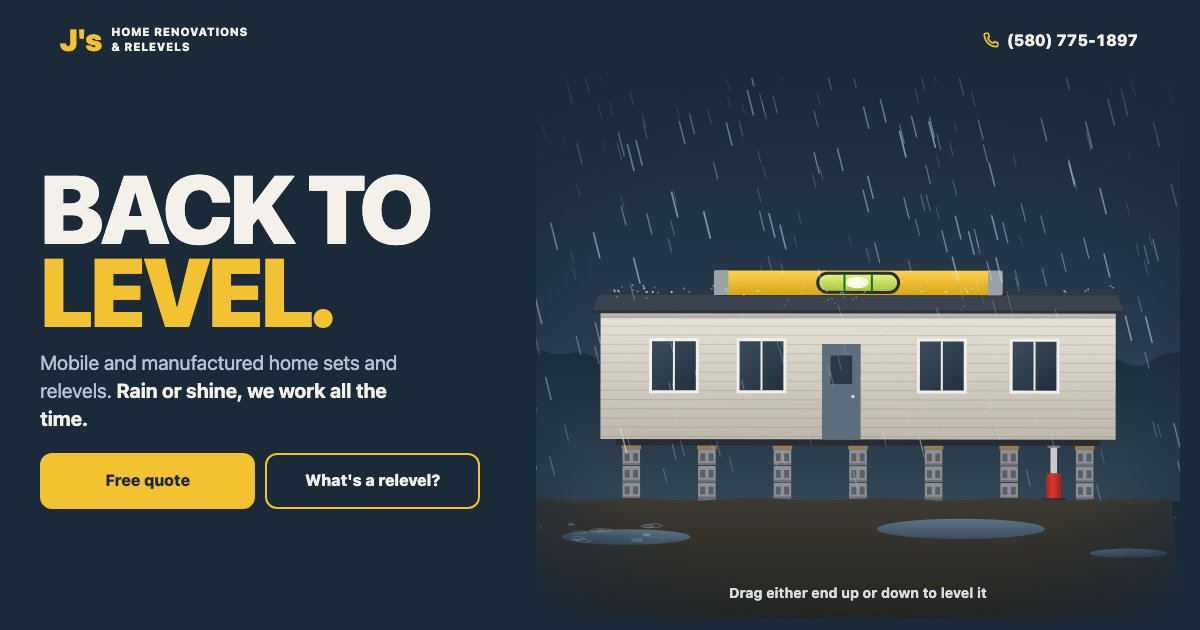
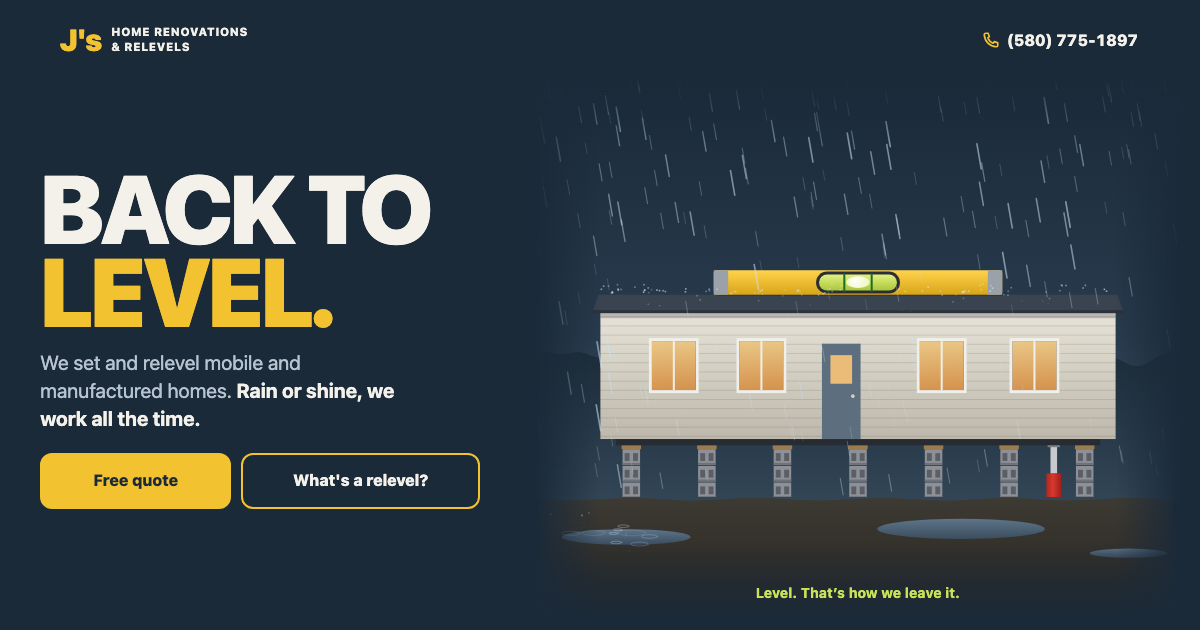
Apply Impeccable review fixes, add handoff
Claude-Session: https://claude.ai/code/session_01Hp2PGGb5UGd3rnLVFmTySM

diff --git a/index.html b/index.html
@@ -56,32 +56,32 @@ h2{font-size:clamp(2.1rem,9vw,3.6rem);text-transform:uppercase}
 .phone{display:inline-flex;align-items:center;gap:7px;min-height:44px;padding:0 2px;font-weight:800;font-size:16px;text-decoration:none;white-space:nowrap;font-variant-numeric:tabular-nums}
 .phone svg{width:18px;height:18px;flex:none;color:var(--level)}
 .phone:hover span{text-decoration:underline;text-underline-offset:4px;text-decoration-color:var(--level)}
-@media (max-width:379px){.mark span{font-size:11px;letter-spacing:.03em}.mark b{font-size:26px}.phone{font-size:15px}.phone svg{display:none}}
+@media (max-width:379px){.btns{grid-template-columns:minmax(0,.8fr) minmax(0,1.2fr)}.btn{font-size:15px;white-space:nowrap}.mark span{font-size:11px;letter-spacing:.03em}.mark b{font-size:26px}.phone{font-size:15px}.phone svg{display:none}}
 
 /* ---------- Hero ---------- */
 .hero{position:relative}
 .hero-copy{padding:18px var(--pad) 0;max-width:var(--max);margin:0 auto}
 .hero h1{font-size:clamp(3.3rem,17vw,6rem);text-transform:uppercase;line-height:.86;letter-spacing:-.035em}
 .hero h1 em{font-style:normal;color:var(--level)}
-.promise{margin:16px 0 0;font-size:clamp(17px,4.6vw,20px);line-height:1.4;color:var(--muted);max-width:30ch}
+.promise{margin:16px 0 0;font-size:clamp(17px,4.6vw,20px);line-height:1.4;color:var(--muted);max-width:30ch;text-wrap:pretty}
 .promise strong{color:var(--ink);font-weight:700}
-.btns{display:grid;grid-template-columns:1fr 1fr;gap:10px;margin-top:20px;max-width:440px}
-.btn{display:inline-flex;align-items:center;justify-content:center;min-height:56px;padding:0 14px;border-radius:12px;border:2px solid var(--level);font:800 16px/1.15 var(--font);text-decoration:none;text-align:center;cursor:pointer;transition:background .2s,color .2s,transform .15s}
+.btns{display:grid;grid-template-columns:1fr 1.25fr;gap:10px;margin-top:20px;max-width:440px}
+.btn{display:inline-flex;align-items:center;justify-content:center;min-height:56px;padding:0 10px;border-radius:12px;border:2px solid var(--level);font:800 16px/1.15 var(--font);text-decoration:none;text-align:center;cursor:pointer;transition:background .2s,color .2s,transform .15s}
 .btn:active{transform:translateY(1px)}
 .btn-main{background:var(--level);color:var(--paper-ink)}
 .btn-main:hover{background:#ffd651;border-color:#ffd651}
 .btn-ghost{background:transparent;color:var(--ink)}
 .btn-ghost:hover{background:rgba(242,194,48,.12)}
-.scene{position:relative;margin-top:14px;height:clamp(250px,40svh,360px);touch-action:none;user-select:none;-webkit-user-select:none;cursor:grab}
+.scene{position:relative;margin-top:20px;height:clamp(250px,40svh,360px);touch-action:none;user-select:none;-webkit-user-select:none;cursor:grab}
 .scene:active{cursor:grabbing}
-.scene canvas{position:absolute;inset:0;width:100%;height:100%;-webkit-mask-image:linear-gradient(to bottom,#000 84%,transparent);mask-image:linear-gradient(to bottom,#000 84%,transparent);}
+.scene canvas{position:absolute;inset:0;width:100%;height:100%;-webkit-mask-image:linear-gradient(to bottom,transparent 0,#000 16%,#000 84%,transparent);mask-image:linear-gradient(to bottom,transparent 0,#000 16%,#000 84%,transparent);}
 .hint{position:absolute;left:0;right:0;bottom:14px;margin:0;text-align:center;font-size:14px;font-weight:700;color:#d6dde3;pointer-events:none;letter-spacing:.01em;transition:color .4s}
 .hint.ok{color:var(--vial)}
 @media (min-width:1024px){
   .hero{display:grid;grid-template-columns:minmax(0,1fr) minmax(0,1.3fr);align-items:center;max-width:calc(var(--max) + 2*var(--pad));padding:0 0 0 var(--pad);margin:0 auto;min-height:min(640px,calc(100svh - 70px))}
   .hero-copy{padding:20px 0 40px;margin:0}
   .scene{height:540px;margin-top:0}
-  .scene canvas{-webkit-mask-image:radial-gradient(ellipse 50% 50% at 50% 50%,#000 68%,transparent 100%);mask-image:radial-gradient(ellipse 50% 50% at 50% 50%,#000 68%,transparent 100%)}
+  .scene canvas{-webkit-mask-image:linear-gradient(to right,transparent,#000 10%,#000 90%,transparent),linear-gradient(to bottom,transparent 0,#000 12%,#000 86%,transparent);-webkit-mask-composite:source-in;mask-image:linear-gradient(to right,transparent,#000 10%,#000 90%,transparent),linear-gradient(to bottom,transparent 0,#000 12%,#000 86%,transparent);mask-composite:intersect}
   .top{padding:18px var(--pad) 6px}
 }
 
@@ -97,7 +97,7 @@ section{padding:56px 0 64px}
 .paper .lede{color:var(--paper-muted)}
 
 /* Services: rows link to the quote form; only the arrow reacts */
-.rows{list-style:none;margin:28px 0 0;padding:0;border-top:1px solid var(--line)}
+.rows{list-style:none;margin:28px 0 0;padding:8px 0 0;border-top:1px solid var(--line)}
 .rows li{border-bottom:1px solid var(--line)}
 .row{display:flex;align-items:center;gap:16px;padding:20px 2px;text-decoration:none;min-height:64px}
 .row:hover,.row:focus-visible{outline:none;background:none;box-shadow:none}
@@ -114,15 +114,16 @@ section{padding:56px 0 64px}
 .signs li{display:flex;gap:14px;align-items:baseline;padding:14px 0;border-bottom:1px solid rgba(27,42,57,.14);font-size:18px;font-weight:600}
 .signs li:last-child{border-bottom:0}
 .signs svg{flex:none;width:26px;height:12px;transform:translateY(1px)}
+.h2-gap{margin-top:64px}
 .paper-note{margin:24px 0 0;font-size:18px;max-width:46ch;color:var(--paper-ink);font-weight:700}
 
 /* Steps */
 .steps{list-style:none;margin:30px 0 0;padding:0;display:grid;gap:26px;counter-reset:s}
 .steps li{display:grid;grid-template-columns:auto 1fr;gap:4px 16px;align-items:baseline}
-.steps .n{font-size:44px;font-weight:900;line-height:1;color:var(--level-deep);font-variant-numeric:tabular-nums;grid-row:span 2}
+.steps .n{font-size:44px;font-weight:900;line-height:1;color:#7d5f00;font-variant-numeric:tabular-nums;grid-row:span 2}
 .steps h3{font-size:22px;text-transform:uppercase;letter-spacing:0}
 .steps p{margin:0;color:var(--paper-muted);font-size:17px}
-.care{margin:36px 0 0;font-size:clamp(20px,5.4vw,26px);line-height:1.35;font-weight:700;max-width:34ch}
+.care{margin:36px 0 0;font-size:clamp(20px,5.4vw,26px);line-height:1.4;font-weight:700;max-width:34ch}
 @media (min-width:900px){.steps{grid-template-columns:repeat(3,1fr);gap:32px}}
 
 /* ---------- Quote form ---------- */
@@ -130,21 +131,21 @@ section{padding:56px 0 64px}
 .field label,.field legend{display:block;font-weight:800;font-size:16px;margin-bottom:8px;padding:0}
 .field .opt{font-weight:500;color:var(--muted)}
 fieldset{border:0;margin:0;padding:0;min-width:0}
-input[type=text],textarea{width:100%;font:500 17px/1.4 var(--font);color:var(--ink);background:var(--ground-3);border:2px solid transparent;border-radius:12px;padding:14px 14px;min-height:54px;transition:border-color .15s}
+input[type=text],textarea{width:100%;font:500 17px/1.4 var(--font);color:var(--ink);background:var(--ground-3);border:2px solid rgba(243,241,234,.18);border-radius:12px;padding:14px 14px;min-height:54px;transition:border-color .15s}
 textarea{min-height:96px;resize:vertical}
 input::placeholder,textarea::placeholder{color:#9fb0bf}
 input[type=text]:hover,textarea:hover,input[type=text]:focus,textarea:focus{border-color:var(--rain);outline:none}
 .chips{display:flex;flex-wrap:wrap;gap:10px}
 .chip{position:relative}
 .chip input{position:absolute;opacity:0;width:1px;height:1px}
-.chip span{display:inline-flex;align-items:center;min-height:48px;padding:0 18px;border-radius:12px;background:var(--ground-3);border:2px solid transparent;font-weight:700;cursor:pointer;transition:border-color .15s,background .15s,color .15s}
+.chip span{display:inline-flex;align-items:center;min-height:48px;padding:0 18px;border-radius:12px;background:var(--ground-3);border:2px solid rgba(243,241,234,.18);font-weight:700;cursor:pointer;transition:border-color .15s,background .15s,color .15s}
 .chip span:hover,.chip input:focus-visible+span{border-color:var(--rain)}
 .chip input:checked+span{background:var(--ink);color:var(--paper-ink)}
 .err{display:none;margin:8px 0 0;color:#ffb3a1;font-size:15px;font-weight:600}
 .field.bad .err{display:block}
 .field.bad input[type=text]{border-color:#ff9c85}
 .send{border:2px solid var(--level);width:100%;max-width:620px}
-.send:hover,.send:focus-visible{outline:3px solid var(--rain);outline-offset:3px}
+.send:hover,.send:focus-visible{outline:3px solid var(--rain);outline-offset:3px;outline-color:var(--rain)}
 .alt{margin:4px 0 0;color:var(--muted);font-size:16px}
 .alt a{display:inline-block;padding:12px 0;margin:-12px 0;font-weight:800;color:var(--ink);text-underline-offset:4px;text-decoration-color:var(--level)}
 
@@ -152,9 +153,10 @@ input[type=text]:hover,textarea:hover,input[type=text]:focus,textarea:focus{bord
 .close{padding:64px 0 40px;text-align:left}
 .close h2{font-size:clamp(2.3rem,11vw,4.6rem)}
 .close h2 span{color:var(--level)}
-.close p{margin:16px 0 0;font-size:19px;color:var(--muted);max-width:40ch}
+.close p{margin:16px 0 0;font-size:18px;color:var(--muted);max-width:40ch}
 .fb{display:inline-flex;align-items:center;gap:12px;margin-top:26px;min-height:56px;padding:0 22px;border-radius:12px;background:#1463d4;color:#fff;font-weight:800;text-decoration:none;font-size:17px;transition:background .2s}
 .fb:hover{background:#0f56bd}
+.fb-paper{margin-top:30px}
 .fb svg{width:22px;height:22px}
 footer{border-top:1px solid var(--line);padding:28px 0 calc(28px + env(safe-area-inset-bottom));font-size:15px;color:var(--muted)}
 footer .wrap{display:grid;gap:8px}
@@ -194,33 +196,33 @@ FORM: Phone-first single column, heavy uppercase system type, slate/paper bands 
 <div class="hero">
   <div class="hero-copy">
     <h1>Back to <em>level.</em></h1>
-    <p class="promise">Mobile and manufactured home sets and relevels. <strong>Rain or shine, we work all the time.</strong></p>
+    <p class="promise">We set and relevel mobile and manufactured homes. <strong>Rain or shine, we work all the time.</strong></p>
     <div class="btns">
       <a class="btn btn-main" href="#quote">Free quote</a>
-      <a class="btn btn-ghost" href="#relevel">What's a relevel?</a>
+      <a class="btn btn-ghost" href="#signs">What's a relevel?</a>
     </div>
   </div>
-  <div class="scene" id="scene" aria-label="A mobile home on its piers in the rain. Drag up or down on either end to level it.">
-    <canvas id="sceneCanvas"></canvas>
+  <div class="scene" id="scene">
+    <canvas id="sceneCanvas" role="img" aria-label="A mobile home on piers in the rain, jacked back to level"></canvas>
     <p class="hint" id="hint">Drag either end up or down to level it</p>
   </div>
 </div>
 
-<svg class="wave" data-wave viewBox="0 0 1200 48" preserveAspectRatio="none" aria-hidden="true" style="background:var(--ground)"><path class="fill" fill="#213446"/><path class="line" fill="none" stroke="rgba(143,203,255,.35)" stroke-width="2"/></svg>
+<svg class="wave" data-wave viewBox="0 0 1200 48" preserveAspectRatio="none" aria-hidden="true" style="background:var(--ground)"><path class="fill" style="fill:var(--ground-2)"/><path class="line" fill="none" stroke="rgba(143,203,255,.35)" stroke-width="2"/></svg>
 
 <section class="dark2" id="services">
   <div class="wrap split">
     <div>
       <h2>What we do</h2>
-      <p class="lede">Tap one to ask for a quote.</p>
+      <p class="lede">Pick one to ask for a quote.</p>
     </div>
     <ul class="rows">
       <li><a class="row" href="#quote" data-service="Home set">
-        <div class="t"><h3>Home sets</h3><p>Your home placed on its piers, level and ready to move into.</p></div>
+        <div class="t"><h3>Home sets</h3></div>
         <span class="arrow" aria-hidden="true"><svg viewBox="0 0 24 24" fill="none" stroke="currentColor" stroke-width="2.4" stroke-linecap="round" stroke-linejoin="round"><path d="M5 12h14M13 6l6 6-6 6"/></svg></span>
       </a></li>
-      <li id="relevel"><a class="row" href="#quote" data-service="Relevel">
-        <div class="t"><h3>Relevels</h3><p>A settled home lifted back to level, so doors, floors and windows sit right again.</p></div>
+      <li><a class="row" href="#quote" data-service="Relevel">
+        <div class="t"><h3>Relevels</h3></div>
         <span class="arrow" aria-hidden="true"><svg viewBox="0 0 24 24" fill="none" stroke="currentColor" stroke-width="2.4" stroke-linecap="round" stroke-linejoin="round"><path d="M5 12h14M13 6l6 6-6 6"/></svg></span>
       </a></li>
       <li><a class="row" href="#quote" data-service="Renovation">
@@ -231,31 +233,35 @@ FORM: Phone-first single column, heavy uppercase system type, slate/paper bands 
   </div>
 </section>
 
-<svg class="wave" data-wave viewBox="0 0 1200 48" preserveAspectRatio="none" aria-hidden="true" style="background:var(--ground-2)"><path class="fill" fill="#eceae4"/><path class="line" fill="none" stroke="rgba(143,203,255,.35)" stroke-width="2"/></svg>
+<svg class="wave" data-wave viewBox="0 0 1200 48" preserveAspectRatio="none" aria-hidden="true" style="background:var(--ground-2)"><path class="fill" style="fill:var(--paper)"/><path class="line" fill="none" stroke="rgba(143,203,255,.35)" stroke-width="2"/></svg>
 
 <section class="paper" id="signs">
   <div class="wrap">
     <h2>Is your home settling?</h2>
     <ul class="signs">
-      <li><svg viewBox="0 0 26 12" aria-hidden="true"><rect x="1" y="1" width="24" height="10" rx="5" fill="#c9e25a" stroke="#1b2a39" stroke-width="1.5"/><ellipse cx="13" cy="6" rx="4" ry="2.6" fill="#f6fbe4"/></svg>Doors that stick, or swing on their own</li>
-      <li><svg viewBox="0 0 26 12" aria-hidden="true"><rect x="1" y="1" width="24" height="10" rx="5" fill="#c9e25a" stroke="#1b2a39" stroke-width="1.5"/><ellipse cx="13" cy="6" rx="4" ry="2.6" fill="#f6fbe4"/></svg>Windows that won't close right</li>
-      <li><svg viewBox="0 0 26 12" aria-hidden="true"><rect x="1" y="1" width="24" height="10" rx="5" fill="#c9e25a" stroke="#1b2a39" stroke-width="1.5"/><ellipse cx="13" cy="6" rx="4" ry="2.6" fill="#f6fbe4"/></svg>Cracks above doors and windows</li>
-      <li><svg viewBox="0 0 26 12" aria-hidden="true"><rect x="1" y="1" width="24" height="10" rx="5" fill="#c9e25a" stroke="#1b2a39" stroke-width="1.5"/><ellipse cx="13" cy="6" rx="4" ry="2.6" fill="#f6fbe4"/></svg>Floors that slope or bounce</li>
-      <li><svg viewBox="0 0 26 12" aria-hidden="true"><rect x="1" y="1" width="24" height="10" rx="5" fill="#c9e25a" stroke="#1b2a39" stroke-width="1.5"/><ellipse cx="13" cy="6" rx="4" ry="2.6" fill="#f6fbe4"/></svg>Gaps opening at the ceiling seams</li>
+      <li><svg viewBox="0 0 26 12" aria-hidden="true"><rect x="2" y="5" width="16" height="3" rx="1.5" fill="#1b2a39"/></svg>Doors that stick, or swing on their own</li>
+      <li><svg viewBox="0 0 26 12" aria-hidden="true"><rect x="2" y="5" width="16" height="3" rx="1.5" fill="#1b2a39"/></svg>Windows that won't close right</li>
+      <li><svg viewBox="0 0 26 12" aria-hidden="true"><rect x="2" y="5" width="16" height="3" rx="1.5" fill="#1b2a39"/></svg>Cracks above doors and windows</li>
+      <li><svg viewBox="0 0 26 12" aria-hidden="true"><rect x="2" y="5" width="16" height="3" rx="1.5" fill="#1b2a39"/></svg>Floors that slope or bounce</li>
+      <li><svg viewBox="0 0 26 12" aria-hidden="true"><rect x="2" y="5" width="16" height="3" rx="1.5" fill="#1b2a39"/></svg>Gaps opening at the ceiling seams</li>
     </ul>
-    <p class="paper-note">These are what a relevel fixes.</p>
+    <p class="paper-note">A relevel lifts a settled home back to level. It fixes all of these.</p>
 
-    <h2 style="margin-top:64px">How it goes</h2>
+    <h2 class="h2-gap">How it goes</h2>
     <ol class="steps">
       <li><span class="n">1</span><h3>You reach out</h3><p>Tell us about the home and where it sits.</p></li>
       <li><span class="n">2</span><h3>We come look</h3><p>We check the home and give you a price.</p></li>
       <li><span class="n">3</span><h3>We set it right</h3><p>Lifted, shimmed and checked until it reads level.</p></li>
     </ol>
     <p class="care">It's your home, not just a job site. We lift it slow, check it twice, and don't pack up until the bubble sits dead center.</p>
+    <a class="fb fb-paper" href="https://www.facebook.com/profile.php?id=61567778443680" rel="noopener">
+      <svg viewBox="0 0 24 24" fill="currentColor" aria-hidden="true"><path d="M13.5 21v-7.5h2.6l.4-3h-3V8.6c0-.9.3-1.5 1.5-1.5h1.6V4.4a21 21 0 0 0-2.3-.1c-2.3 0-3.9 1.4-3.9 4v2.2H7.8v3h2.6V21h3.1z"/></svg>
+      See us on Facebook
+    </a>
   </div>
 </section>
 
-<svg class="wave" data-wave viewBox="0 0 1200 48" preserveAspectRatio="none" aria-hidden="true" style="background:var(--paper)"><path class="fill" fill="#1b2a39"/><path class="line" fill="none" stroke="rgba(27,42,57,.25)" stroke-width="2"/></svg>
+<svg class="wave" data-wave viewBox="0 0 1200 48" preserveAspectRatio="none" aria-hidden="true" style="background:var(--paper)"><path class="fill" style="fill:var(--ground)"/><path class="line" fill="none" stroke="rgba(27,42,57,.25)" stroke-width="2"/></svg>
 
 <section id="quote">
   <div class="wrap split">
@@ -266,20 +272,20 @@ FORM: Phone-first single column, heavy uppercase system type, slate/paper bands 
     <form class="form" id="quoteForm" novalidate>
       <div class="field" id="f-name">
         <label for="name">Your name</label>
-        <input type="text" id="name" name="name" autocomplete="name" placeholder="First and last name">
-        <p class="err">Add your name so we know who's texting.</p>
+        <input type="text" id="name" name="name" autocomplete="name" autocapitalize="words" enterkeyhint="next" aria-describedby="e-name" placeholder="First and last name">
+        <p class="err" id="e-name">Add your name so we know who's texting.</p>
       </div>
-      <fieldset class="field" id="f-job">
+      <fieldset class="field" id="f-job" aria-describedby="e-job">
         <legend>What do you need?</legend>
         <div class="chips">
           <label class="chip"><input type="radio" name="job" value="Relevel"><span>Relevel</span></label>
           <label class="chip"><input type="radio" name="job" value="Home set"><span>Home set</span></label>
           <label class="chip"><input type="radio" name="job" value="Renovation"><span>Renovation</span></label>
         </div>
-        <p class="err">Pick one.</p>
+        <p class="err" id="e-job">Pick one.</p>
       </fieldset>
       <fieldset class="field">
-        <legend>The home <span class="opt">(optional)</span></legend>
+        <legend>Type of home <span class="opt">(optional)</span></legend>
         <div class="chips">
           <label class="chip"><input type="radio" name="home" value="Single-wide"><span>Single-wide</span></label>
           <label class="chip"><input type="radio" name="home" value="Double-wide"><span>Double-wide</span></label>
@@ -288,15 +294,15 @@ FORM: Phone-first single column, heavy uppercase system type, slate/paper bands 
       </fieldset>
       <div class="field" id="f-where">
         <label for="where">Where is the home?</label>
-        <input type="text" id="where" name="where" autocomplete="address-level2" placeholder="Town and state">
-        <p class="err">Add the town so we can tell you if we cover it.</p>
+        <input type="text" id="where" name="where" autocomplete="address-level2" autocapitalize="words" enterkeyhint="next" aria-describedby="e-where" placeholder="Town and state">
+        <p class="err" id="e-where">Add the town so we can tell you if we cover it.</p>
       </div>
       <div class="field">
         <label for="notes">Anything else <span class="opt">(optional)</span></label>
         <textarea id="notes" name="notes" placeholder="What you're noticing, when you need it done"></textarea>
       </div>
       <button class="btn btn-main send" type="submit">Text this to J's</button>
-      <p class="alt">Rather talk? Call <a href="tel:+15807751897">(580) 775-1897</a>. Call to ask about your area too.</p>
+      <p class="alt" id="alt">Rather talk? Call <a href="tel:+15807751897">(580) 775-1897</a>. Ask about your area too.</p>
     </form>
   </div>
 </section>
@@ -305,10 +311,7 @@ FORM: Phone-first single column, heavy uppercase system type, slate/paper bands 
   <div class="wrap">
     <h2>J's Home Renovations <span>&amp; Relevels</span></h2>
     <p>Ask for Joshua. Rain or shine, we work all the time.</p>
-    <a class="fb" href="https://www.facebook.com/profile.php?id=61567778443680" rel="noopener">
-      <svg viewBox="0 0 24 24" fill="currentColor" aria-hidden="true"><path d="M13.5 21v-7.5h2.6l.4-3h-3V8.6c0-.9.3-1.5 1.5-1.5h1.6V4.4a21 21 0 0 0-2.3-.1c-2.3 0-3.9 1.4-3.9 4v2.2H7.8v3h2.6V21h3.1z"/></svg>
-      Find us on Facebook
-    </a>
+
   </div>
 </section>
 </main>
@@ -356,7 +359,7 @@ const PHONE = matchMedia('(max-width: 700px)').matches;
 
   const scene = document.getElementById('scene');
   const cv = document.getElementById('sceneCanvas');
-  const ctx = cv.getContext('2d');
+  let ctx = cv.getContext('2d');
   const hint = document.getElementById('hint');
   let W = 0, H = 0, dpr = 1;
   let G = {};                      // geometry
@@ -393,6 +396,7 @@ const PHONE = matchMedia('(max-width: 700px)').matches;
     }
     if (!drops.length) for (let i = 0; i < RAIN_COUNT; i++) drops.push(newDrop(true));
     // puddles
+    backdrop = null;
     G.puddles = [[W * 0.14, groundY + H * 0.07, W * 0.1], [W * 0.66, groundY + H * 0.055, W * 0.13], [W * 0.92, groundY + H * 0.1, W * 0.06]];
   }
 
@@ -416,7 +420,21 @@ const PHONE = matchMedia('(max-width: 700px)').matches;
   function beamAt(T, x) { return T.py + (x - T.px) * Math.tan(T.a); }
 
   /* --- drawing --- */
-  function drawSky() {
+  let backdrop = null;
+  function bakeBackdrop() {
+    backdrop = document.createElement('canvas');
+    backdrop.width = W * dpr; backdrop.height = H * dpr;
+    const real = ctx; ctx = backdrop.getContext('2d'); ctx.setTransform(dpr, 0, 0, dpr, 0, 0);
+    paintSky(); paintGround();
+    G.ground = backdrop; ctx = real;
+  }
+  function drawSky() { if (!backdrop) bakeBackdrop(); ctx.drawImage(backdrop, 0, 0, W, H); }
+  function drawGround() {
+    // ground overlaps sunk piers: redraw only the strip below the ground line from the baked image
+    const sy = (G.groundY - 2) * dpr;
+    ctx.drawImage(backdrop, 0, sy, backdrop.width, backdrop.height - sy, 0, G.groundY - 2, W, H - G.groundY + 2);
+  }
+  function paintSky() {
     const g = ctx.createLinearGradient(0, 0, 0, G.groundY);
     g.addColorStop(0, '#1b2a39'); g.addColorStop(1, '#30455a');
     ctx.fillStyle = g; ctx.fillRect(0, 0, W, G.groundY + 2);
@@ -550,7 +568,7 @@ const PHONE = matchMedia('(max-width: 700px)').matches;
     G.vialHalf = vw / 2 - bw / 2 - 1; G.vialGain = vw * 0.11;
   }
 
-  function drawGround() {
+  function paintGround() {
     const gy = G.groundY;
     const g = ctx.createLinearGradient(0, gy, 0, H);
     g.addColorStop(0, '#3d3a33'); g.addColorStop(1, '#25241f');
@@ -728,15 +746,16 @@ const PHONE = matchMedia('(max-width: 700px)').matches;
 
 /* ===== Puddle-surface dividers: the fill follows the moving water line ===== */
 (() => {
-  const SPEED = 1.0, SWELL = 7, RIPPLE = 3;
+  const SPEED = 1.0, SWELL = 3, RIPPLE = 1.5;
   const waves = [...document.querySelectorAll('[data-wave]')].map((el, i) => ({
     el, fill: el.querySelector('.fill'), line: el.querySelector('.line'), seed: i * 1.7, on: true }));
   function build(w, t) {
     let d = '', pts = [];
+    const k = (w.el.clientWidth || 1440) / 1440;   // keep bumps the same real width on phones
     for (let x = 0; x <= 1200; x += 20) {
-      const y = 24 + Math.sin(x * 0.006 + t * 0.9 * SPEED + w.seed) * SWELL
-                   + Math.sin(x * 0.021 - t * 1.7 * SPEED + w.seed * 2) * RIPPLE
-                   + Math.sin(x * 0.047 + t * 2.6 * SPEED) * 1.2;
+      const y = 24 + Math.sin(x * 0.006 * k + t * 0.9 * SPEED + w.seed) * SWELL
+                   + Math.sin(x * 0.021 * k - t * 1.7 * SPEED + w.seed * 2) * RIPPLE
+                   + Math.sin(x * 0.047 * k + t * 2.6 * SPEED) * 0.6;
       pts.push(x + ' ' + y.toFixed(1));
     }
     const line = 'M' + pts.join(' L');
@@ -767,7 +786,10 @@ const PHONE = matchMedia('(max-width: 700px)').matches;
   const val = n => (f.elements[n].value || '').trim();
   function check() {
     const ok = { 'f-name': !!val('name'), 'f-job': !!val('job'), 'f-where': !!val('where') };
-    Object.entries(ok).forEach(([id, good]) => document.getElementById(id).classList.toggle('bad', !good));
+    Object.entries(ok).forEach(([id, good]) => {
+      const el = document.getElementById(id); el.classList.toggle('bad', !good);
+      const inp = el.querySelector('input[type=text]'); if (inp) inp.setAttribute('aria-invalid', String(!good));
+    });
     return Object.values(ok).every(Boolean);
   }
   f.addEventListener('input', () => { if (f.dataset.tried) check(); });
@@ -784,6 +806,7 @@ const PHONE = matchMedia('(max-width: 700px)').matches;
       val('notes') && 'Notes: ' + val('notes')
     ].filter(Boolean);
     location.href = 'sms:' + PHONE_NUM + '?&body=' + encodeURIComponent(lines.join('\n'));
+    setTimeout(() => { document.getElementById('alt').innerHTML = 'Didn\u2019t open your texts? Call <a href="tel:+15807751897">(580) 775-1897</a>.'; }, 800);
   });
 })();
 </script>

diff --git a/HANDOFF.md b/HANDOFF.md
@@ -1,0 +1,49 @@
+# J's Home Renovations & Relevels — handoff at ~60%
+
+**Live:** https://10elizabethbell.github.io/jsHomeRenovationsRelevels/ · **Repo:** https://github.com/10elizabethbell/jsHomeRenovationsRelevels · **Built:** 2026-10-18 from Muse brief (run 2026-10-18, Facebook group "Essex County Contractor Referrals")
+
+## What's built
+- Single-file `index.html` (~43 KB, no images except og/favicon), phone-first, system font stack.
+- **World:** storm-slate sky, rain, a single-wide home on cinder-block piers, a red bottle jack and a yellow spirit level on the roof. Built from the owner's own line, "Rain or shine we work all the time".
+- **Signature element (hero canvas):** the home settles out of level, the crew jacks it back, the vial bubble slides to center and the windows light up ("Level. That's how we leave it."). Then it settles the other way and the loop repeats. Visitors take over by dragging either end up or down (mouse or finger, any direction; vertical drags don't scroll the page inside the scene), and the rain parts around the pointer. The low side's piers sink into the mud as it tilts.
+- Animated puddle-surface seams between sections. One shared rAF loop, paused off screen, still frame under reduced motion.
+- **Sections:** header (J's wordmark, tap-to-call number top right) → hero (BACK TO LEVEL., promise, Free quote + What's a relevel?) → What we do (Home sets / Relevels / Renovations rows; each opens the form with that job picked) → Is your home settling? (5 signs + what a relevel is) → How it goes (3 steps + care line + Facebook button) → Free quote form → close (name, "Ask for Joshua") → footer.
+- **Contact:** the quote form builds a pre-filled text to (580) 775-1897 (`sms:+15807751897?&body=…`), with an inline call link under it. Tested: errors show for name/job/town, and the encoded body decodes correctly.
+
+## Assumptions I made
+- **Colors:** none exist (no logo). Slate ground (#1b2a39), level-tool yellow (#f2c230) accent, rain-blue (#8fcbff) for form hover/focus, paper (#eceae4) band.
+- **Favicon / home-screen icon:** no logo, so they use the site's own "J's" lettering over a level vial.
+- **Voice "we":** the caption says "give us a call", so they're treated as a crew. "Ask for Joshua" uses the owner name from the posting profile.
+- **Services:** only "set" and "relevel" are stated; "Renovations" comes from the business name, with no specifics.
+- **Signs of settling** and **How it goes** (come look, give a price, lift/shim/check) are general trade knowledge, not the owner's words. Confirm with him.
+- **Care line** ("We lift it slow, check it twice…") is written in his voice but not quoted from him.
+- **Audience:** not treated as 40+ (the brief doesn't say), so motion is on. If Ellie thinks his customers skew older, switch to a still scene per `older-audience.md`.
+
+## Placeholders and gaps
+- **Service area:** unknown (580 = Oklahoma, but the ad ran in a NJ group). The page says "Call for service area" / "Ask about your area" and never names a place.
+- **Does the number take texts?** Unknown. The form hands off by text, with the call link right under it. If it's a landline, make the form call-first.
+- **Facebook** is Joshua's personal profile (no business page); the button says "See us on Facebook", not "see our work", because the timeline couldn't be checked.
+- No email (none in the footer), hours, prices, reviews, logo or photos. The only video is shot from inside a truck in the rain (a home on blocks is visible through a wet window); it's too blurry and personal to use and is not published.
+
+## Questions for the owner
+- Where do you work (towns/counties/states)? Is it NJ or Oklahoma?
+- Can customers text (580) 775-1897?
+- 3+ photos of a set or relevel (before/after if possible), and a logo if you have one.
+- Hours? Do you do new sets from dealers, used-home moves, or both? Anything under "renovations" worth naming (skirting, decks, floors)?
+- A business Facebook page, or should the site link your personal one?
+- Any reviews or customers willing to give one?
+
+## Ideas not built (yours to pick)
+- **Runner-up world:** "the job site at golden hour": a dry, warm palette with tie-down straps and a laser line sweeping across the home. Less on-brand than rain-or-shine, but brighter.
+- Photo strip or before/after slider under "How it goes" once photos exist, with the Facebook link moved directly under it.
+- Short haptic tick (`navigator.vibrate(12)`) when the home snaps level (Android only).
+- Wet-ground reflection of the windows lighting up when level; more rain on desktop.
+- Pressing the level with the arrow circle on the service rows (fill like a vial bubble on hover).
+- Desktop leaves empty columns beside "Is your home settling?". Could put "How it goes" beside it, or a photo once one exists.
+- The hero promise line names the services; trim it to just the promise if you prefer.
+
+## Not verified
+- Real-device touch (iOS Safari, the Facebook in-app browser, Android Chrome). Tested only with simulated pointer/touch events in headless Chrome.
+- The real SMS handoff on iOS/Android, and whether the number receives texts at all.
+- Frame rate on old phones (rain count is 150 on phones; the backdrop is cached).
+- WebKit audit not run.
